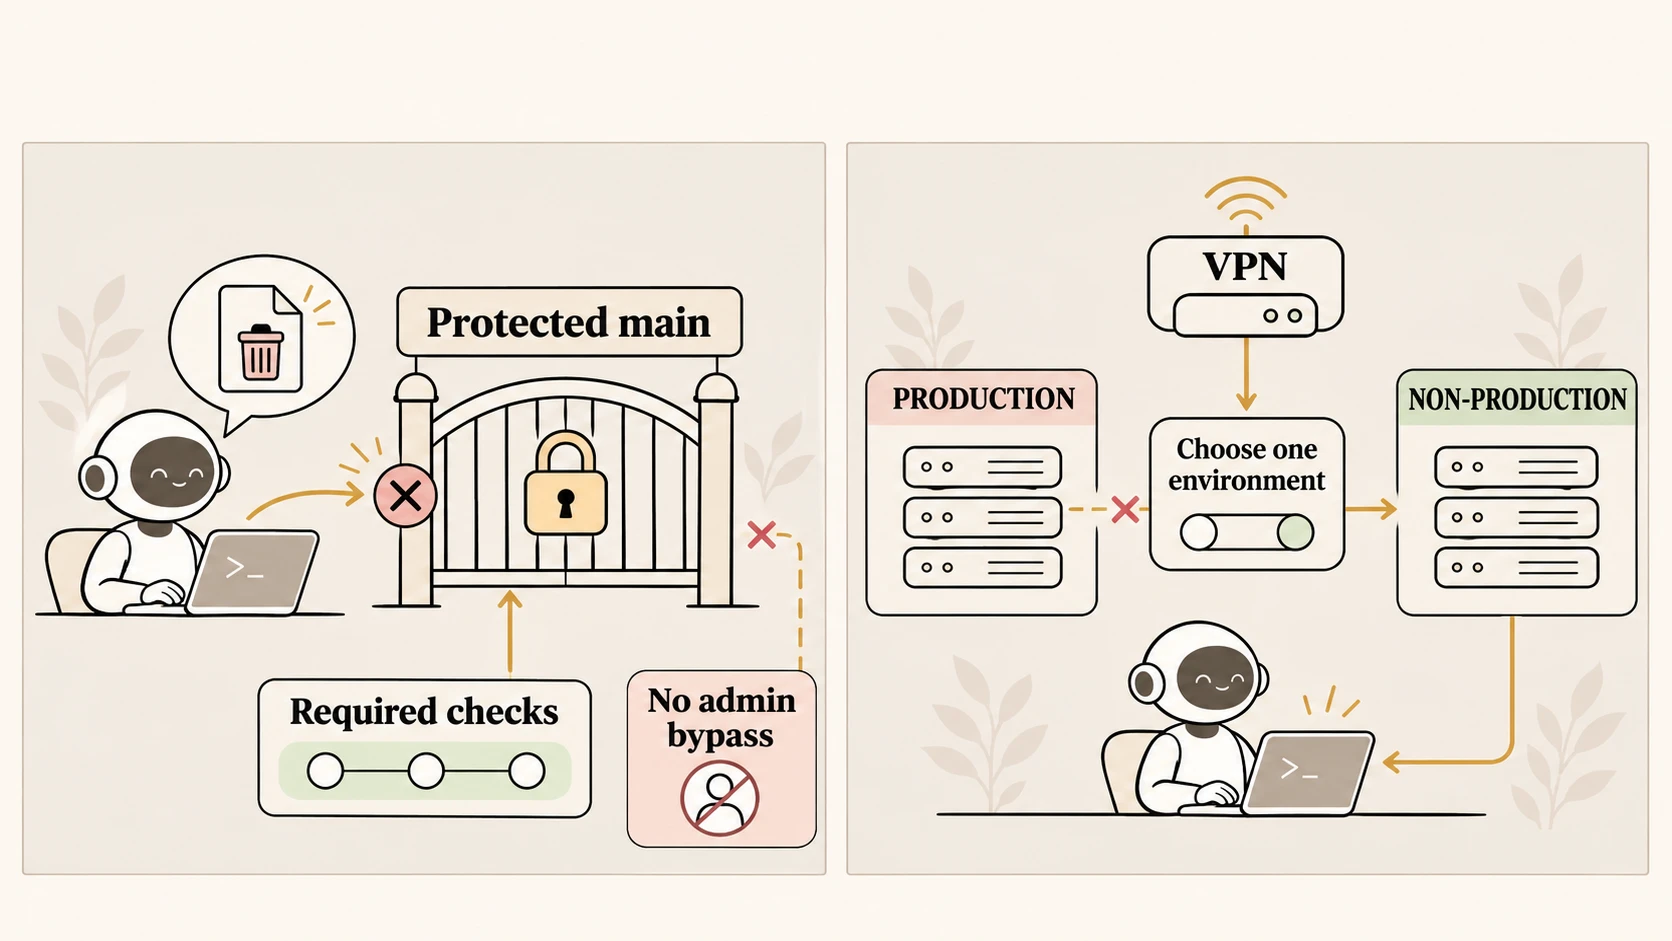
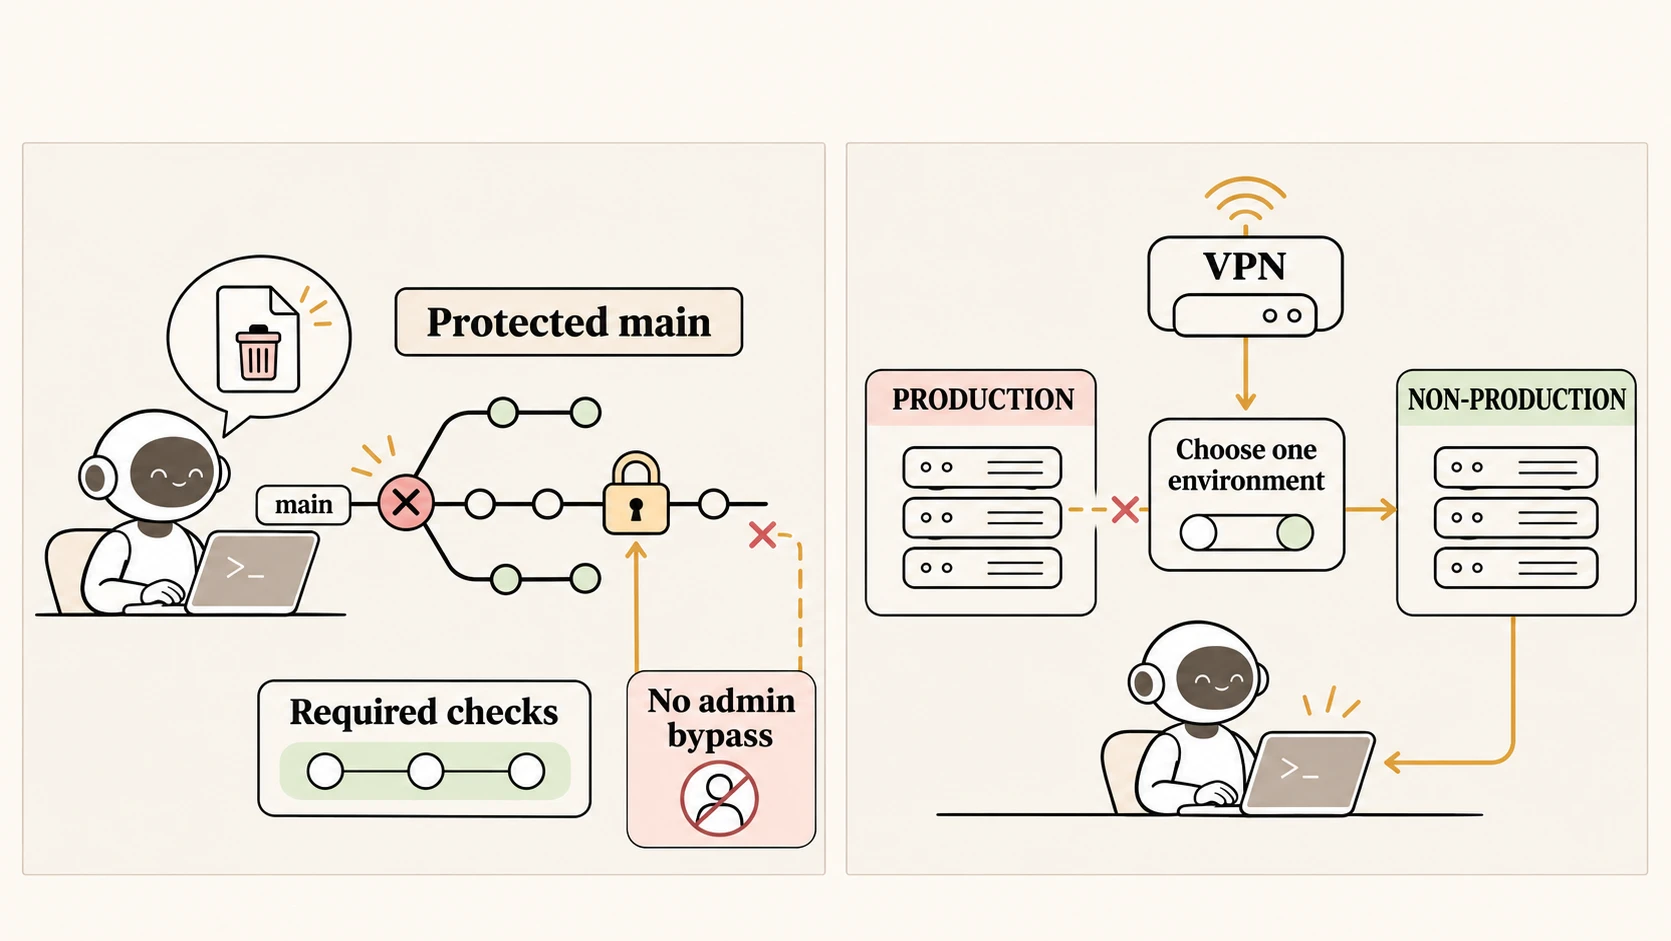
fix(slides): brighten autonomy guardrails artwork

diff --git a/media/README.md b/media/README.md
@@ -389,8 +389,8 @@ Composition: two equal side-by-side panels. At LEFT, heading exactly "Manual set
 
 ## guardrails-autonomy.webp
 
-Two examples show infrastructure enforcing autonomy boundaries: protected
-branch rules stop a destructive change unless required checks pass, and a VPN
+Two examples show infrastructure enforcing autonomy boundaries: a protected
+Git branch blocks a destructive change unless required checks pass, and a VPN
 gateway gives an agent access to one isolated environment at a time.
 
 ```text
@@ -403,6 +403,12 @@ Left panel: show an agent represented by the same kind of friendly small desk ro
 Right panel: show a VPN/access gateway that can connect to either a production environment or a non-production environment, but only one at a time. Depict two separate isolated server environments, one labelled "PRODUCTION" and one labelled "NON-PRODUCTION"; a simple two-position selector in the middle visibly chooses one side and blocks the other side, never a bridge between them. Show the agent/robot working in non-production while production remains physically separated and inaccessible. Add only these exact short labels: "VPN", "PRODUCTION", "NON-PRODUCTION", "Choose one environment".
 No additional text or labels anywhere else in the artwork. Keep typography large and precise. No logos, gradients, shadows, dark panels, dark/brown-dominant fills, painterly or photorealistic rendering, bright green checks, watermark, or slide title.
 ```
+
+Final built-in image edit: brighten the canvas to ivory and make the panels
+very pale warm stone; remove all foliage; replace the left-panel gate with a
+Git branch diagram that labels and locks `main` while preserving the blocked
+deletion, required checks, and closed administrator-bypass examples. Keep the
+VPN and isolated production and non-production example unchanged.
 
 ## meta-automation-examples.webp
 
